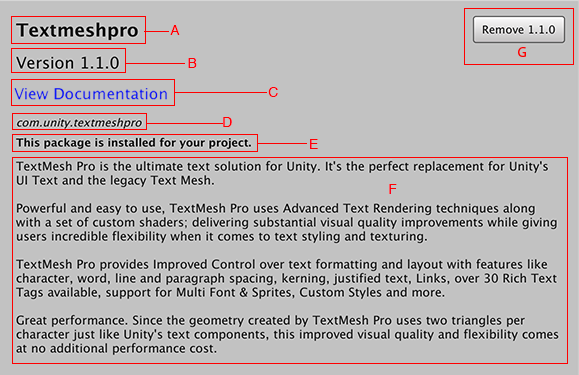
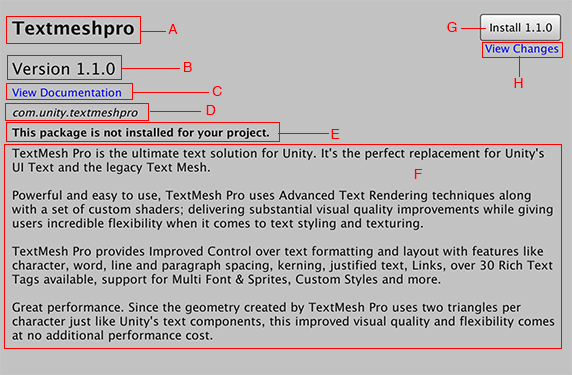
1.7.2 - 2018/02/12 @2018.1

diff --git a/package/Editor/Sources/UI/PackageManagerWindow.cs b/package/Editor/Sources/UI/PackageManagerWindow.cs
@@ -14,8 +14,6 @@ namespace UnityEditor.PackageManager.UI
         // When object is created
         public void OnEnable()
         {
-            Application.logMessageReceived += OnApplicationOnLogMessageReceived;
-
             if (EditorGUIUtility.isProSkin)
                 this.GetRootVisualContainer().AddStyleSheetPath("Styles/Main_Dark");
             else
@@ -37,23 +35,12 @@ namespace UnityEditor.PackageManager.UI
 
         public void OnDisable()
         {
-            Application.logMessageReceived -= OnApplicationOnLogMessageReceived;
-            
             // Package list item may not be valid here.
             if (PackageList != null)
             {
                 PackageList.OnSelected -= OnPackageSelected;
                 PackageList.OnLoaded -= OnPackagesLoaded;
             }
-        }
-
-        // Temporary hack to make sure that the window does not stay opened while the manifest is invalid
-        // since this cause all the package's assets to be unloaded and the window to behave unpedictably.
-        // Should be removed once upm bubbles up its errors.
-        private void OnApplicationOnLogMessageReceived(string condition, string stackTrace, LogType type)
-        {
-            if (type == LogType.Error && condition.StartsWith("Failed to initialize project : ")) 
-                Close();
         }
 
         private void OnPackageSelected(Package package)

diff --git a/package/Documentation/package-manager-ui.md b/package/Documentation/package-manager-ui.md
@@ -1,5 +1,5 @@
 # Package Manager
-A package is a container that holds anything from an entire module of Unity (such as Physics or Animation) to any combination of Assets, Shaders, Textures, plug-ins, icons, and scripts that enhance various parts of your project. Unity packages are newer, more tightly integrated versions of Asset Store packages, able to deliver a wide range of enhancements to Unity.
+A package is a container that holds anything from an entire module of Unity (such as Physics or Animation) to any combination of Assets, Shaders, Textures, plug-ins, icons, and scripts that enhance various parts of your project. Unity packages are newer, more tightly integrated versions of Asset Store packages, able to deliver a wide range of enhancements to Unity. 
 
 Use the Package Manager window to view which packages are available for installation or already installed in your project. In addition, you can use this window to [install](#PackManInstall), [remove](#PackManRemove), [disable](#PackManDisable), or [update](#PackManUpdate) packages for each project.
 
@@ -14,9 +14,9 @@ The Package Manager window displays two types of Unity packages:
  - **Built In Packages** or *Modules*, which represent some of the core Unity features. You can use these packages to [turn Unity modules on and off](#PackManDisable).<br>
  **Note:** You can find out more about what each module implements in the [Unity Scripting API](https://docs.unity3d.com/ScriptReference/). Each module assembly page lists which APIs the module implements.
 
-By default, the Package Manager window displays the list of packages in the **In Project** mode, so that only the packages and modules already installed in your project appear in the list.
+By default, the Package Manager window displays the list of packages in the **In Project** mode, so that only the packages already installed in your project appear in the list. 
 
-To expand the list to include all available packages and modules, click the **All** button. The list now displays all packages and modules registered in the [package registry](#PackManRegistry), regardless of whether they are already installed in the project.
+To expand the list to include all available packages, click the **All** button. The list now displays everything registered in the [package registry](#PackManRegistry), regardless of whether they are already installed in the project.
 
 ![In Project and All modes](Images/PackageManagerUI-Modes.png)
 
@@ -28,16 +28,17 @@ The pane on the right side of the Package Manager window displays details about 
 ![Details pane](Images/PackageManagerUI-DetailsPane.png)
 
 These details include the following information:
- - (A) The display name
- - (B) The version number
- - \(C\) View the documentation for this package
- - (D) The official package name from the registry starting with `com.unity.`
+ - (A) The display name 
+ - (B) The version number 
+ - \(C\) The link to open the package documentation page 
+ - (D) The official package name from the registry starting with `com.unity.` 
  - (E) The installation or update status
- - (F) A brief description
+ - (F) A brief description 
  - (G) Buttons to install, remove, disable, or update the package
+ - (H) The link to open the package change log
 
 ### Version tags
-Some packages display special tags next to the version number. These tags convey special information about that version of the package.
+Some packages display special tags next to the version number. These tags convey special information about that version of the package. 
 
 ![Tagged version information](Images/PackageManagerUI-Tags.png)
 
@@ -49,17 +50,26 @@ Package Manager uses the following values:
 | `alpha` or `beta` | This package is at an early stage of the release cycle and may not have been documented and validated by either the development team or Unity's Quality Assurance team. |
 | `experimental` | This package is in development. |
 
+### Finding more information
+You can find out more about a package by viewing the documentation. 
+
+To access it, click the View Documentation link in the Details pane:
+
+![View Documentation link](Images/PackageManagerUI-ViewDocs.png)
+
+The package documentation page opens.
+
 <a name="PackManOpen"></a>
 ## Accessing the Package Manager window
 You can perform a variety of tasks through the Package Manager window:
 
  - [Install a new package](#PackManInstall)
  - [Remove an installed package](#PackManRemove)
- - [Disable a Unity built-in package](#PackManDisable)
+ - [Disable a built-in package](#PackManDisable)
  - [Update an installed package](#PackManUpdate)
 
- To open the Package Manager window, select **Window > Package Manager** from the main menu.
-
+ To open the Package Manager window, select **Window > Package Manager** from the main menu. 
+ 
 ![Window > Package Manager](Images/PackageManagerUI-Access.png)
 
 <a name="PackManInstall"></a>
@@ -67,7 +77,7 @@ You can perform a variety of tasks through the Package Manager window:
 ![Install button](Images/PackageManagerUI-InstallButton.png)
 
 To install a new package:
- 1. Open the Project Manager window and click the **All** button.
+ 1. Open the Project Manager window and click the **All** button. 
  2. Select the package you want to install from the **Packages** list. The package information appears in the Details pane.
  3. Click the **Install X.X.X** button. When the progress bar finishes, the new package is ready to use.
 
@@ -76,39 +86,28 @@ To install a new package:
 ![Remove button](Images/PackageManagerUI-RemoveButton.png)
 
 To remove an installed package:
- 1. Open the Project Manager window.
- 2. Click the **In Project** button if you are in **All** mode.
+ 1. Open the Project Manager window. 
+ 2. Click the **In Project** button if you are in **All** mode. 
  3. Select the package you want to remove from the **Packages** list. The package information appears in the Details pane.
  4. Click the **Remove X.X.X** button. When the progress bar finishes, the package disappears from the list.
 
-**Notes:**
- - You can only remove packages which are not required by another package.
+**Notes:** 
+ - You can only remove packages which are not required by another package. 
  - When you remove a package, any editor or runtime functionality which it implemented is no longer available.
 
 <a name="PackManDisable"></a>
-### Disabling a Unity built-in package
-
-A built-in package is a package which exposes a built-in Unity engine module to the package manager, allowing you to enable or disable the functionality of the module. Built-in Unity Engine modules implement core functionality implemented by the Unity runtime. Unlike normal packages, they cannot be replaced or updated with different versions, as they are part of the Unity runtime. But they can be enabled or disabled in the Package Manager UI (Currently, all built-in packages are enabled by default, in the future, we might ship experimental or deprecated features disabled by default).
-
-Disabling a built-in package disables the corresponding Unity engine module. This means that:
-
-* Any scripting API implemented by the module will become unavailable, and result in compiler errors.
-* Any components implemented by the module cannot be added to GameObjects. Components already in your scenes will not be removed (to avoid loss of data), but they will be greyed out in the inspector, and they will not be loaded when entering play mode and they they will be stripped from builds.
-* On build targets which support engine code stripping (WebGL, iOS, Android), disabling a module makes sure it’s code will not be added to the build.
-
-To find out more about what an individual module does, refer to the [Unity Scripting Reference](https://docs.unity3d.com/ScriptReference/). You will find a page for each module assembly, detailing which APIs are implemented by that module. Each API reference page also links the module assembly which implements it.
-
+### Disabling a built-in package
 ![Disable button](Images/PackageManagerUI-DisableButton.png)
 
 To disable a built-in package:
  1. Open the Project Manager window.
- 2. Click the **In Project** button if you are in **All** mode.
+ 2. Click the **In Project** button if you are in **All** mode. 
  3. Expand the **Built In Packages** list in the left pane.
- 4. Select the built-in package you want to remove from the **Built In Packages** list. The built-in package information appears in the Details pane.
- 5. Click the **Disable** button. When the progress bar finishes, the built-in package disappears from the list.
-
+ 4. Select the package you want to remove from the **Built In Packages** list. Its information appears in the Details pane.
+ 5. Click the **Disable** button. When the progress bar finishes, the package disappears from the list.
+ 
 **Note:** When you disable a built-in package, the corresponding Unity functionality is no longer available:
-- If you use a Scripting API implemented by a disabled built-in package, you get compiler errors.
+- If you use a Scripting API implemented by a disabled package, you get compiler errors.
 - Components implemented by that built-in package are disabled too. You cannot add them to any GameObjects. If you have a GameObject that already has one of these components, Unity ignores them in Play mode. You can see them in the Inspector window but they are greyed out to indicate that they are not available.
 - When building a game, Unity strips all disabled components. For build targets which support engine code stripping (like WebGL, iOS, and Android), Unity doesn't add any code from a disabled built-in package.
 
@@ -118,8 +117,8 @@ To disable a built-in package:
 
 You can update a package while in either the **In Project** or **All** mode:
  1. Open the Project Manager window. Any packages that have updates available appear with an arrow indicator.
- 2. Select the package you want to update from the **Packages** list. The package information appears in the Details pane.
- 3. Click the **Update to X.X.X** button. When the progress bar finishes, the new package version information appears in the Details pane and any new functionality is available.
+ 2. Select the package you want to update from the **Packages** list. The package information appears in the Details pane. 
+ 3. Click the **Update to X.X.X** button. When the progress bar finishes, the new package version information appears in the Details pane and any new functionality is available. 
 
 ## Advanced package topics
 This section provides more advanced information about the package manifest file but you don't need to know anything about these topics to install, remove, disable, and update packages.
@@ -132,17 +131,18 @@ In addition, there are several files that help manage the package deployment, in
 
 <a name="PackManManifests"></a>
 ### Manifests
-There are two types of manifest files: [project](#PackManManifestsProject) manifests (`manifest.json`), and [package](#PackManManifestsPackage) manifests (`package.json`). Both files use JSON (JavaScript Object Notation) syntax to communicate with Package Manager by describing which packages are available for each project and what each package contains.
+There are two types of manifest files: [project](#PackManManifestsProject) manifests (`manifest.json`), and [package](#PackManManifestsPackage) manifests (`package.json`). Both files use JSON (JavaScript Object Notation) syntax to communicate with Package Manager by describing which packages are available for each project and what each package contains. 
 
 <a name="PackManManifestsProject"></a>
 #### Project manifests
 Project manifests (`manifest.json`) tell Package Manager which packages and versions are available to the project.
 
-The following values are supported:
+The following value is supported:
 
 | Key | JSON Type | Description |
 |--|--|--|
 | `dependencies` | Object |List of packages for Package Manager to load. These are usually packages officially registered with Unity. |
+
 
 Example of a `manifest.json` file:
 
@@ -173,14 +173,14 @@ The following values are supported:
 | `category` | String |Category of the package. For example, `"Forces"`. |
 | `dependencies` | Object |List of packages this package depends on, expressed as a JSON dictionary where the key is the package name and the value is the version number. Unity downloads all dependencies and loads them in the project with the package. |
 
-Example of a `package.json` file:
+Example of a `package.json` file: 
 
 	{
 		"name": "com.unity.package-4",
 		"displayName": "Package Number 4",
 		"version": "2.5.1",
 		"unity": "2018.1",
-		"description": "This package provides X, Y, and Z. \n\nTo find out more, click the \"View documentation\" button.",
+		"description": "This package provides X, Y, and Z. \n\nTo find out more, click the \"View Documentation\" link.",
 		"keywords": ["key X", "key Y", "key Z"],
 		"category": "Controllers",
 		"dependencies": {
@@ -218,7 +218,8 @@ Package Manager includes the following known limitations:
 ## Documentation revision history
 |Date|Reason|
 |---|---|
-|Feb 06, 2018|Documentation cleaned up. Matches package version 1.6.1.|
+|Feb 8, 2018|Documentation updated. Matches package version 1.7.0.|
+|Feb 6, 2018|Documentation cleaned up. Matches package version 1.6.1.|
 |Jan 31, 2018|Documentation updated (developmental review)|
 |Jan 29, 2018|Document updated. Matches package version 1.6.0.|
 |Jan 18, 2018|Document updated. Matches package version 1.5.1.|

diff --git a/package/CHANGELOG.md b/package/CHANGELOG.md
@@ -4,8 +4,7 @@ All notable changes to this package will be documented in this file.
 The format is based on [Keep a Changelog](http://keepachangelog.com/en/1.0.0/)
 and this project adheres to [Semantic Versioning](http://semver.org/spec/v2.0.0.html).
 
-## [1.7.1] - 2018-02-08
-- Closes window when manifest is invalid (note: this means the window reads the console log errors while opened)
+## [1.7.2] - 2018-02-08
 - Will no longer report errors infinitely when an exception is thrown during an operation
 - Only show "View Changes" when there is an update button
 - Fixes typos in dialog when updating package manager ui
